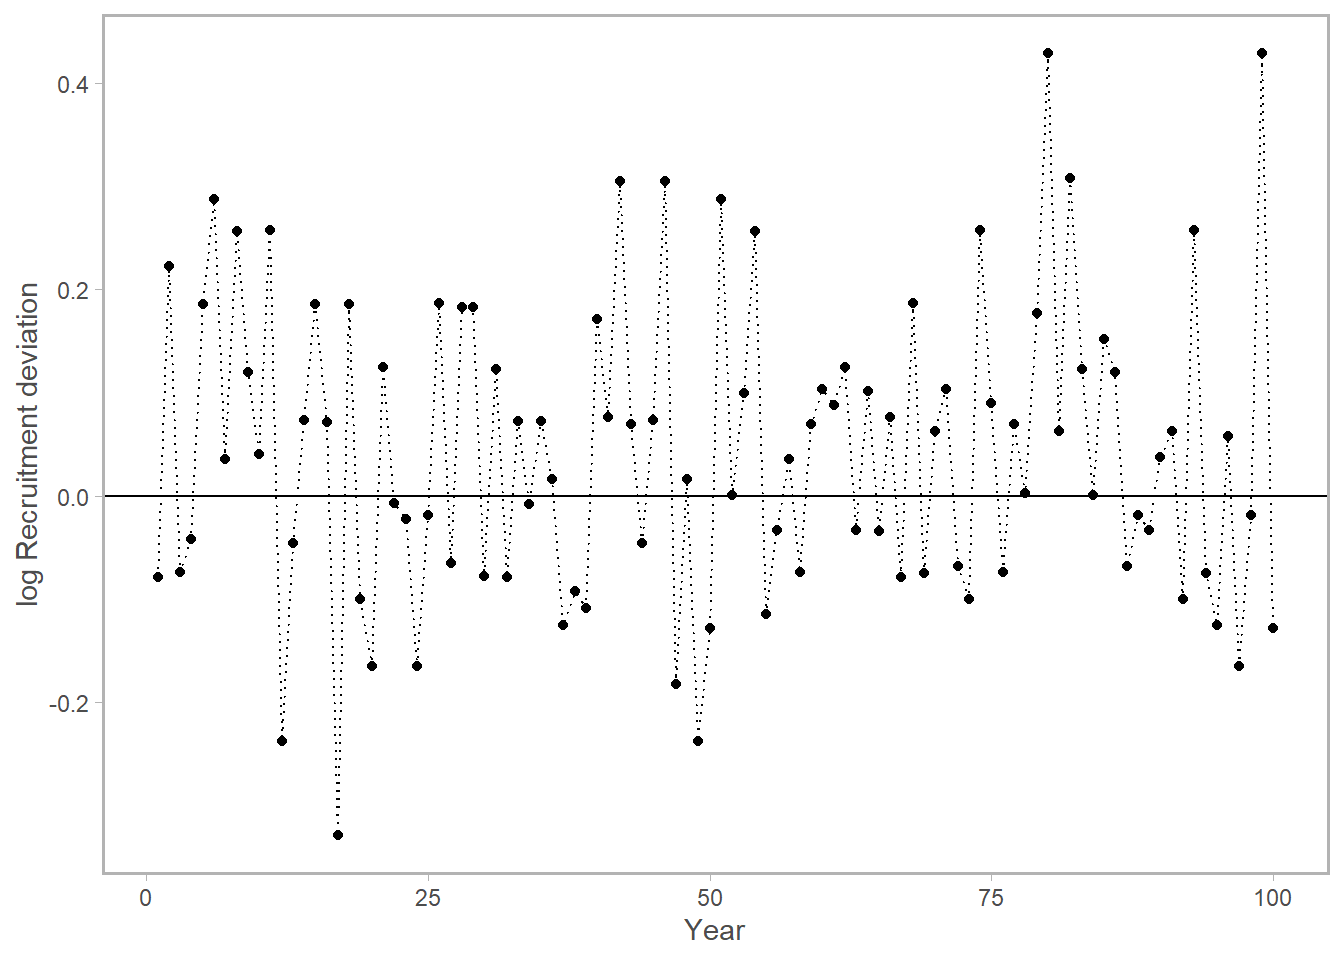
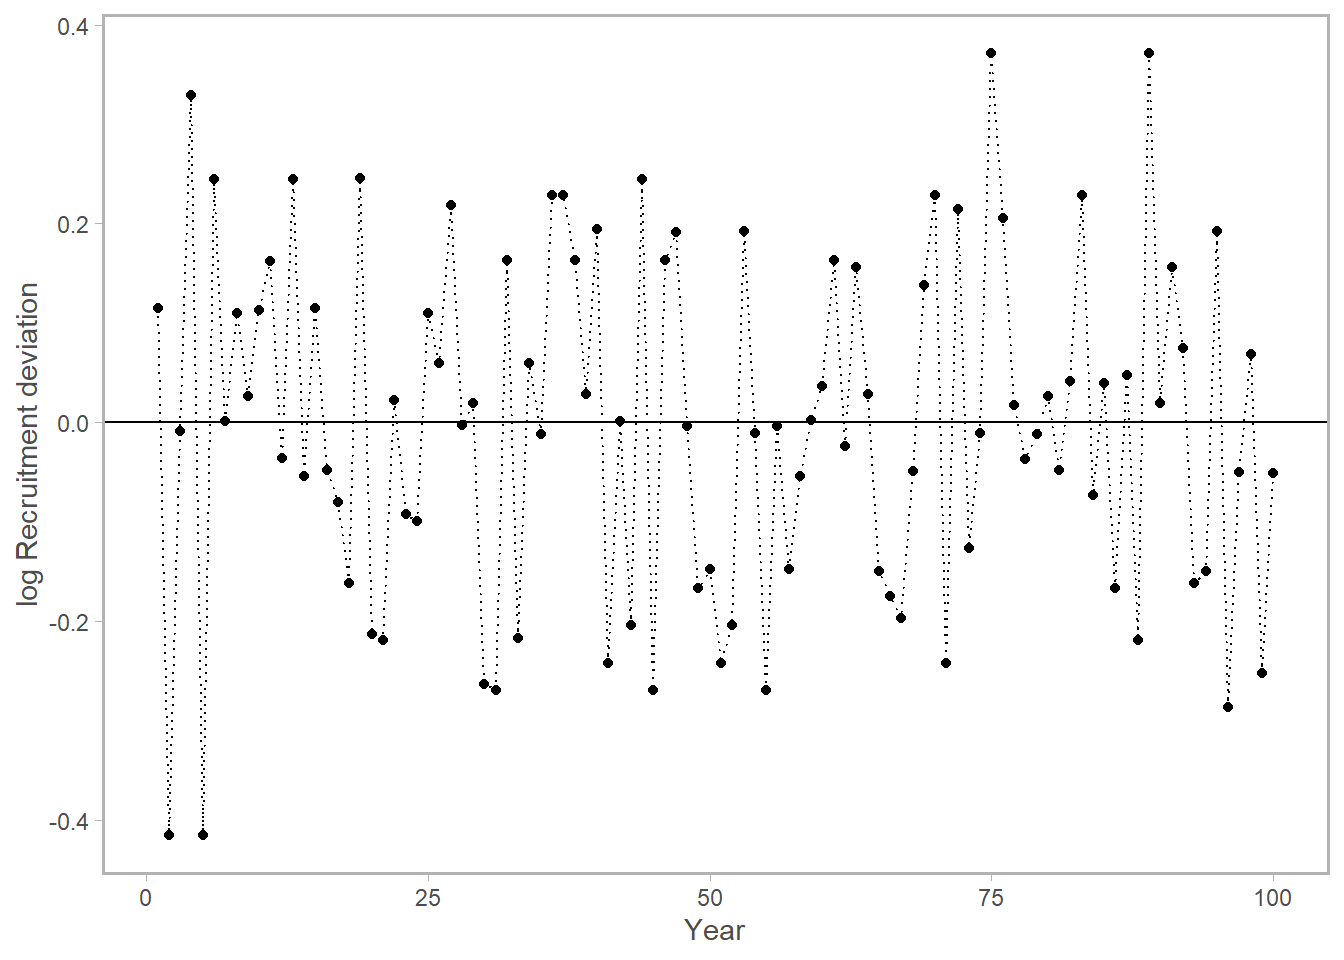
re knit with updates

diff --git a/docs/posts/2021-01-25_recDevs/recdevs.html b/docs/posts/2021-01-25_recDevs/recdevs.html
@@ -266,17 +266,17 @@ R_{expected,y} = R_{det,y}e^{(dev_y-\sigma^2/2)}
 <div class="sourceCode cell-code" id="cb1"><pre class="sourceCode r code-with-copy"><code class="sourceCode r"><span id="cb1-1"><a href="#cb1-1" aria-hidden="true" tabindex="-1"></a><span class="do">## should be close to 0</span></span>
 <span id="cb1-2"><a href="#cb1-2" aria-hidden="true" tabindex="-1"></a><span class="fu">mean</span>(X) </span></code><button title="Copy to Clipboard" class="code-copy-button"><i class="bi"></i></button></pre></div>
 <div class="cell-output cell-output-stdout">
-<pre><code>[1] 0.04865703</code></pre>
+<pre><code>[1] 0.02280342</code></pre>
 </div>
 <div class="sourceCode cell-code" id="cb3"><pre class="sourceCode r code-with-copy"><code class="sourceCode r"><span id="cb3-1"><a href="#cb3-1" aria-hidden="true" tabindex="-1"></a><span class="do">## should be close to 1</span></span>
 <span id="cb3-2"><a href="#cb3-2" aria-hidden="true" tabindex="-1"></a><span class="fu">exp</span>(<span class="fu">mean</span>(X))</span></code><button title="Copy to Clipboard" class="code-copy-button"><i class="bi"></i></button></pre></div>
 <div class="cell-output cell-output-stdout">
-<pre><code>[1] 1.04986</code></pre>
+<pre><code>[1] 1.023065</code></pre>
 </div>
 <div class="sourceCode cell-code" id="cb5"><pre class="sourceCode r code-with-copy"><code class="sourceCode r"><span id="cb5-1"><a href="#cb5-1" aria-hidden="true" tabindex="-1"></a><span class="do">## yet the mean of the blue distribution is larger...</span></span>
 <span id="cb5-2"><a href="#cb5-2" aria-hidden="true" tabindex="-1"></a><span class="fu">mean</span>(<span class="fu">exp</span>(X)) </span></code><button title="Copy to Clipboard" class="code-copy-button"><i class="bi"></i></button></pre></div>
 <div class="cell-output cell-output-stdout">
-<pre><code>[1] 1.744439</code></pre>
+<pre><code>[1] 1.735731</code></pre>
 </div>
 <div class="sourceCode cell-code" id="cb7"><pre class="sourceCode r code-with-copy"><code class="sourceCode r"><span id="cb7-1"><a href="#cb7-1" aria-hidden="true" tabindex="-1"></a><span class="do">##... in fact, the expected value of exp(X) is ~exp(mu+sigma/2)</span></span>
 <span id="cb7-2"><a href="#cb7-2" aria-hidden="true" tabindex="-1"></a><span class="fu">exp</span>(mu<span class="sc">+</span>sigma<span class="sc">^</span><span class="dv">2</span><span class="sc">/</span><span class="dv">2</span>)</span></code><button title="Copy to Clipboard" class="code-copy-button"><i class="bi"></i></button></pre></div>
@@ -299,16 +299,16 @@ R_{expected,y} = R_{det,y}e^{(dev_y-\sigma^2/2)}
 <div class="sourceCode cell-code" id="cb9"><pre class="sourceCode r code-with-copy"><code class="sourceCode r"><span id="cb9-1"><a href="#cb9-1" aria-hidden="true" tabindex="-1"></a><span class="do">## as above, the mean is close to 1 without adjustment</span></span>
 <span id="cb9-2"><a href="#cb9-2" aria-hidden="true" tabindex="-1"></a><span class="fu">exp</span>(<span class="fu">mean</span>(X)) </span></code><button title="Copy to Clipboard" class="code-copy-button"><i class="bi"></i></button></pre></div>
 <div class="cell-output cell-output-stdout">
-<pre><code>[1] 1.04986</code></pre>
+<pre><code>[1] 1.023065</code></pre>
 </div>
 <div class="sourceCode cell-code" id="cb11"><pre class="sourceCode r code-with-copy"><code class="sourceCode r"><span id="cb11-1"><a href="#cb11-1" aria-hidden="true" tabindex="-1"></a><span class="do">## ...though the actual mean is greater, by a factor of sigma^2/2</span></span>
 <span id="cb11-2"><a href="#cb11-2" aria-hidden="true" tabindex="-1"></a><span class="fu">mean</span>(<span class="fu">exp</span>(X)) </span></code><button title="Copy to Clipboard" class="code-copy-button"><i class="bi"></i></button></pre></div>
 <div class="cell-output cell-output-stdout">
-<pre><code>[1] 1.744439</code></pre>
+<pre><code>[1] 1.735731</code></pre>
 </div>
 <div class="sourceCode cell-code" id="cb13"><pre class="sourceCode r code-with-copy"><code class="sourceCode r"><span id="cb13-1"><a href="#cb13-1" aria-hidden="true" tabindex="-1"></a><span class="fu">mean</span>(<span class="fu">exp</span>(X<span class="dv">-1</span><span class="sc">^</span><span class="dv">2</span><span class="sc">/</span><span class="dv">2</span>)) <span class="do">## with bias correction, closer to 1 again!</span></span></code><button title="Copy to Clipboard" class="code-copy-button"><i class="bi"></i></button></pre></div>
 <div class="cell-output cell-output-stdout">
-<pre><code>[1] 1.058056</code></pre>
+<pre><code>[1] 1.052774</code></pre>
 </div>
 </div>
 <p>One last thing. Normally we present a time series of rec-devs, and leave them in log space (to get around the scale issue I mentioned above).</p>
@@ -329,11 +329,11 @@ R_{expected,y} = R_{det,y}e^{(dev_y-\sigma^2/2)}
 <h1>Bonus 2: A note on lognormal CVs</h1>
 <p>This came up during some work on VAST. f you have low log-SDs (i.e., &lt;0.1), then the log-SD is basically identical to CV – log-SD is the SD of the index in log-space, and makes sense if you’re fitting the index as a lognormal distribution. <strong>Here’s how to convert a log-normal mean and standard deviation to a CV on the normal scale</strong>, otherwise.</p>
 <p>Consider a random variable X that follows a lognormal distribution: <span class="math inline">\(X \sim Lognormal(μ, σ)\)</span></p>
-<p>We know that when converting into non-log space, the mean of <span class="math inline">\(X\)</span> should be <span class="math inline">\(μ_X = e(μ + (σ^2)/2)\)</span> and the standard deviation should be <span class="math inline">\(σ_X = \sqrt{e^{σ^2-1}} e^{μ + σ^2/2}\)</span> (check the <a href="https://en.wikipedia.org/wiki/Log-normal_distribution#Probability_in_different_domains">lognormal wiki</a> page for details.)</p>
+<p>We know that when converting into non-log space, the mean of <span class="math inline">\(X\)</span> should be <span class="math inline">\(μ_X = e(μ + (σ^2)/2)\)</span> and the standard deviation is <span class="math inline">\(σ_X = \sqrt{e^{σ^2-1}} e^{μ + σ^2/2}\)</span> (check the <a href="https://en.wikipedia.org/wiki/Log-normal_distribution#Probability_in_different_domains">lognormal wiki</a> page under “Arithmetic Moments” for details).</p>
 <p>The coefficient of variation (CV) on the original scale is defined as the ratio of the standard deviation to the mean of the random variable X: <span class="math inline">\(CV_{original} = \frac{σ_X}{μ_X}\)</span></p>
 <p>Via substitution:</p>
-<p><span class="math inline">\(\frac{\sqrt{e^{σ^2-1}}e^{μ + σ^2/2})} {(e^{μ + σ^2/2})}\)</span></p>
-<p>Cancel out the common term (<span class="math inline">\(e^{μ + σ^2/2})\)</span>) in the numerator and denominator, leaving:</p>
+<p><span class="math inline">\(\frac{\sqrt{e^{σ^2-1}}e^{μ + σ^2/2}} {e^{μ + σ^2/2}}\)</span></p>
+<p>Cancel out the common term (<span class="math inline">\(e^{μ + σ^2/2}\)</span>) in the numerator and denominator, leaving:</p>
 <p><span class="math inline">\(\sqrt{e^{σ^2-1}}\)</span></p>
 
 

diff --git a/docs/about.html b/docs/about.html
@@ -133,7 +133,7 @@ ul.task-list li input[type="checkbox"] {
 </div>
   </div>
   <div class="about-contents"><main class="content" id="quarto-document-content">
-<p>I am currently both a federal Research Mathematical Statistician at the Alaska Fisheries Science Center (NOAA, Seattle) and a PhD Candidate at the School of Aquatic and Fisheries Science at the University of Washington in the <a href="http://puntlab.washington.edu/maia-kapur/">Punt Lab</a>. My research was supported by a <a href="https://seagrant.noaa.gov/News/Article/ArtMID/1660/ArticleID/2750/NOAA-Sea-Grant-and-Fisheries-announce-2019-Ecosystem-and-Population-Dynamics-Fellows">NMFS-Sea Grant Population Dynamics Fellowship</a> awarded in 2019.</p>
+<p>I am a federal Research Mathematical Statistician at the Alaska Fisheries Science Center (NOAA, Seattle). I received my PhD from the the School of Aquatic and Fisheries Science at the University of Washington in the <a href="http://puntlab.washington.edu/maia-kapur/">Punt Lab</a>. My research was supported by a <a href="https://seagrant.noaa.gov/News/Article/ArtMID/1660/ArticleID/2750/NOAA-Sea-Grant-and-Fisheries-announce-2019-Ecosystem-and-Population-Dynamics-Fellows">NMFS-Sea Grant Population Dynamics Fellowship</a> awarded in 2019.</p>
 <p>Previously I worked as an Assessment Specialist at the Joint Institute for Marine and Atmospheric Research at PIFSC (NOAA) in Honolulu and completed my MSc at the Hawaii Institute of Marine Biology. I have also worked in the Florida Keys and studied at the Smithsonian Tropical Research Institute in Bocas Del Toro, Panama while completing my BSc in Environmental Science at UC Berkeley.</p>
 
 

diff --git a/docs/index.html b/docs/index.html
@@ -310,7 +310,7 @@ Feb 10, 2021
 </div>
 </a>
 </div>
-<div class="g-col-1" data-index="5" data-categories="" data-listing-date-sort="1611561600000" data-listing-file-modified-sort="1688413982858" data-listing-reading-time-sort="11.96">
+<div class="g-col-1" data-index="5" data-categories="" data-listing-date-sort="1611561600000" data-listing-file-modified-sort="1688416576160" data-listing-reading-time-sort="10.995">
 <a href="./posts/2021-01-25_recDevs/recdevs.html" class="quarto-grid-link">
 <div class="quarto-grid-item card h-100 card-left">
 <p class="card-img-top">
